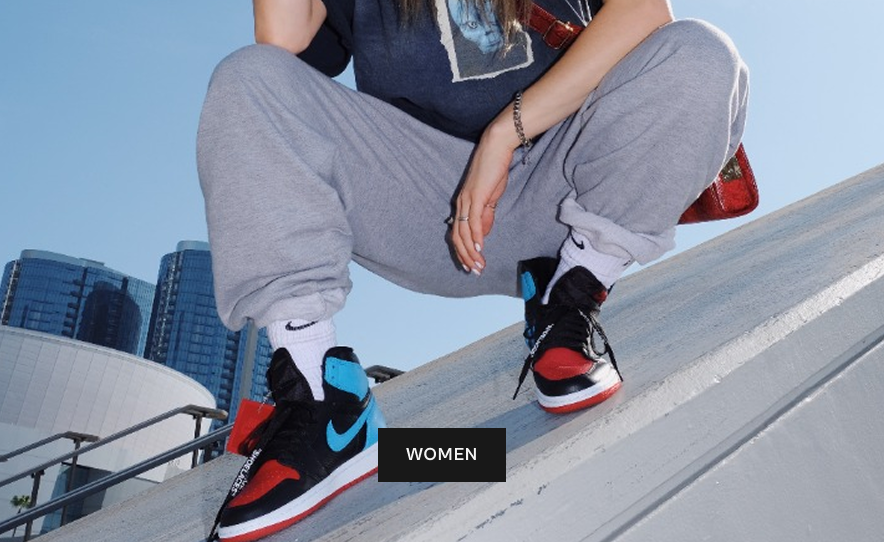
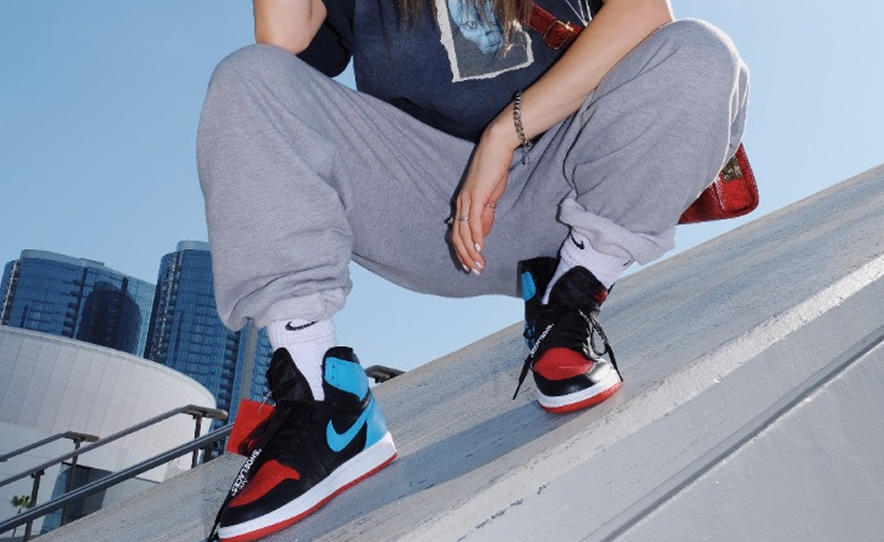
photo-navigation

Changed region(s): [[0.4276, 0.7675, 0.5803, 0.9151]]

diff --git a/src/components/UI/PhotoNavigation.jsx b/src/components/UI/PhotoNavigation.jsx
@@ -1,34 +1,38 @@
 import React from "react";
 import styled from "styled-components";
+import { Boots, Kids, Sneakers, WomenImg, Man } from "../../assets";
 // import Boots from "../assets/image/Boots.png";
 // import Kids from "../assets/image/Kids.png"
 // import Men from "../assets/image/Men.png"
 // import Sneakers from "../assets/image/Sneakers.png"
 // import women from "../assets/image/Women.png"
 
-
-
 export const PhotoNavigation = () => {
   return (
     <DivMain>
       <DivOne>
         <button>KIDS</button>
+        {/* <img src={Kids} alt="" /> */}
       </DivOne>
       <SecondDiv>
         <DivTwo>
           <button>WOMEN</button>
+          {/* <img src={WomenImg} alt="" /> */}
         </DivTwo>
 
         <DivThree>
           <button>SNEAKERS</button>
+          {/* <img src={Sneakers} alt="" /> */}
         </DivThree>
       </SecondDiv>
       <SecondDiv>
         <DivFour>
           <button>BOOTS</button>
+          {/* <img src={Boots} alt="" /> */}
         </DivFour>
         <DivFive>
           <button>MEN </button>
+          {/* <img src={Man} alt="" /> */}
         </DivFive>
       </SecondDiv>
     </DivMain>
@@ -52,7 +56,7 @@ const SecondDiv = styled.div`
 const DivOne = styled.div`
   width: 100%;
   height: 495px;
-  background-image: url(${photoOne});
+  background-image: url(${Kids});
   background-repeat: no-repeat;
   background-size: cover;
   background-position: center;
@@ -73,7 +77,7 @@ const DivOne = styled.div`
 const DivTwo = styled.div`
   width: 885px;
   height: 542px;
-  background-image: url(${photoTwo});
+  background-image: url(${WomenImg});
   background-repeat: no-repeat;
   background-size: cover;
   background-position: center;
@@ -94,7 +98,7 @@ const DivTwo = styled.div`
 const DivThree = styled.div`
   width: 669px;
   height: 542px;
-  background-image: url(${photoThree});
+  background-image: url(${Sneakers});
   background-repeat: no-repeat;
   background-size: cover;
   background-position: center;
@@ -115,7 +119,7 @@ const DivThree = styled.div`
 const DivFour = styled.div`
   width: 549px;
   height: 542px;
-  background-image: url(${photos});
+  background-image: url(${Boots});
   background-repeat: no-repeat;
   background-size: cover;
   background-position: center;
@@ -136,7 +140,7 @@ const DivFour = styled.div`
 const DivFive = styled.div`
   width: 985px;
   height: 542px;
-  background-image: url(${photos5});
+  background-image: url(${Man});
   background-repeat: no-repeat;
   background-size: cover;
   background-position: center;
@@ -144,7 +148,6 @@ const DivFive = styled.div`
   justify-content: center;
   align-items: flex-end;
   padding-bottom: 60px;
-
   button {
     width: 99px;
     height: 54px;

diff --git a/src/assets/index.js b/src/assets/index.js
@@ -10,7 +10,11 @@ import LinkedinSvg from "./icons/footer-icons/LinkedIn.svg?react";
 import InstagramSvg from "./icons/footer-icons/Instagram.svg?react";
 import XtwitterSvg from "./icons/footer-icons/X.svg?react";
 import YouTubeSvg from "./icons/footer-icons/Youtube.svg?react";
-
+export { default as WomenImg } from "./image/Women.png";
+export { default as Boots } from "./image/Boots.png";
+export { default as Kids } from "./image/Kids.png";
+export { default as Man } from "./image/Man.png";
+export { default as Sneakers} from "./image/Sneakers.png"
 export const Icons = {
   FiveStars,
   FourStars,

diff --git a/src/App.jsx b/src/App.jsx
@@ -1,7 +1,10 @@
 import React from "react";
+import { PhotoNavigation } from "./components/UI/PhotoNavigation";
 
 const App = () => {
-  return <div>App</div>;
+  return <div>App
+    <PhotoNavigation/>
+  </div>;
 };
 
 export default App;
